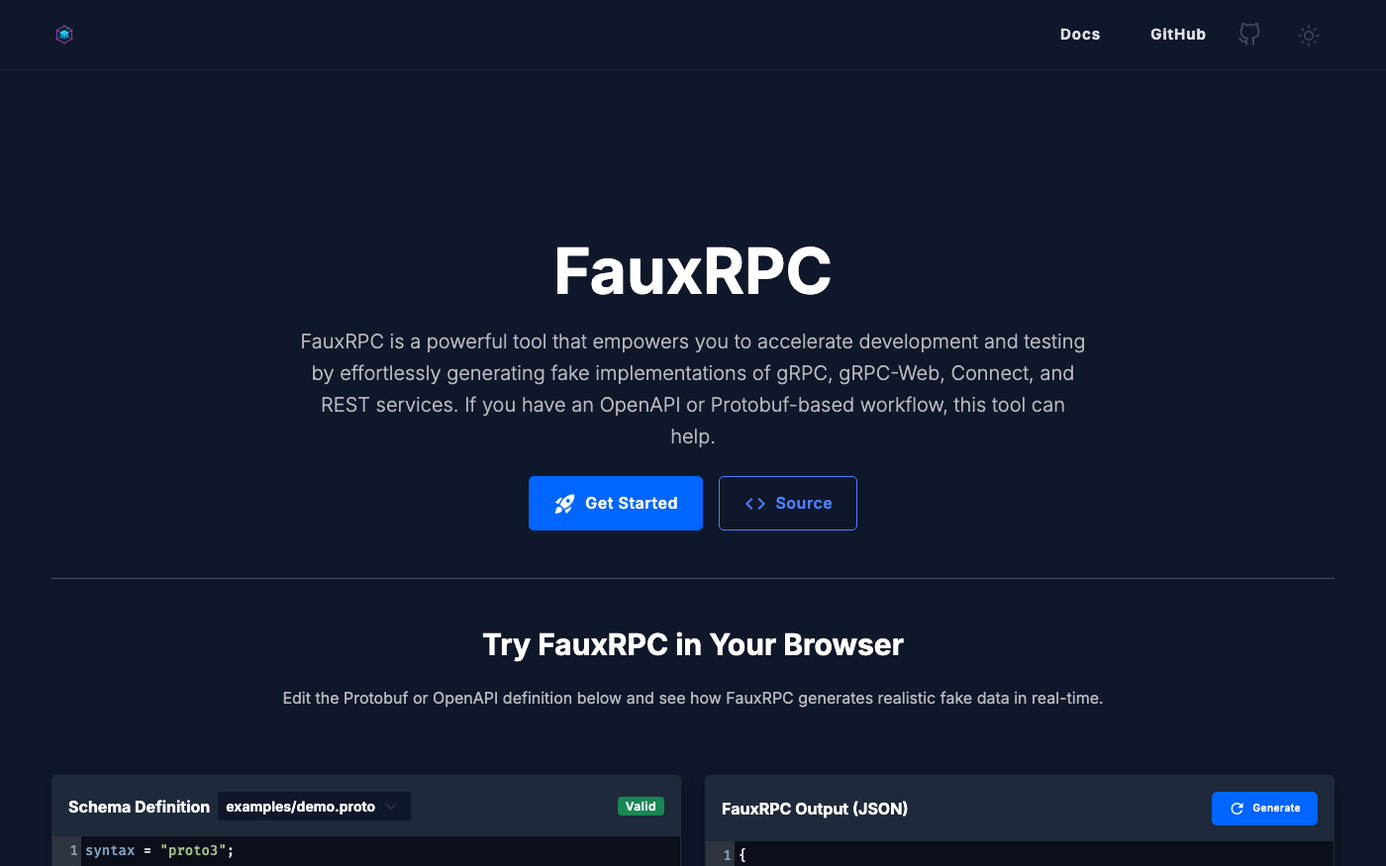
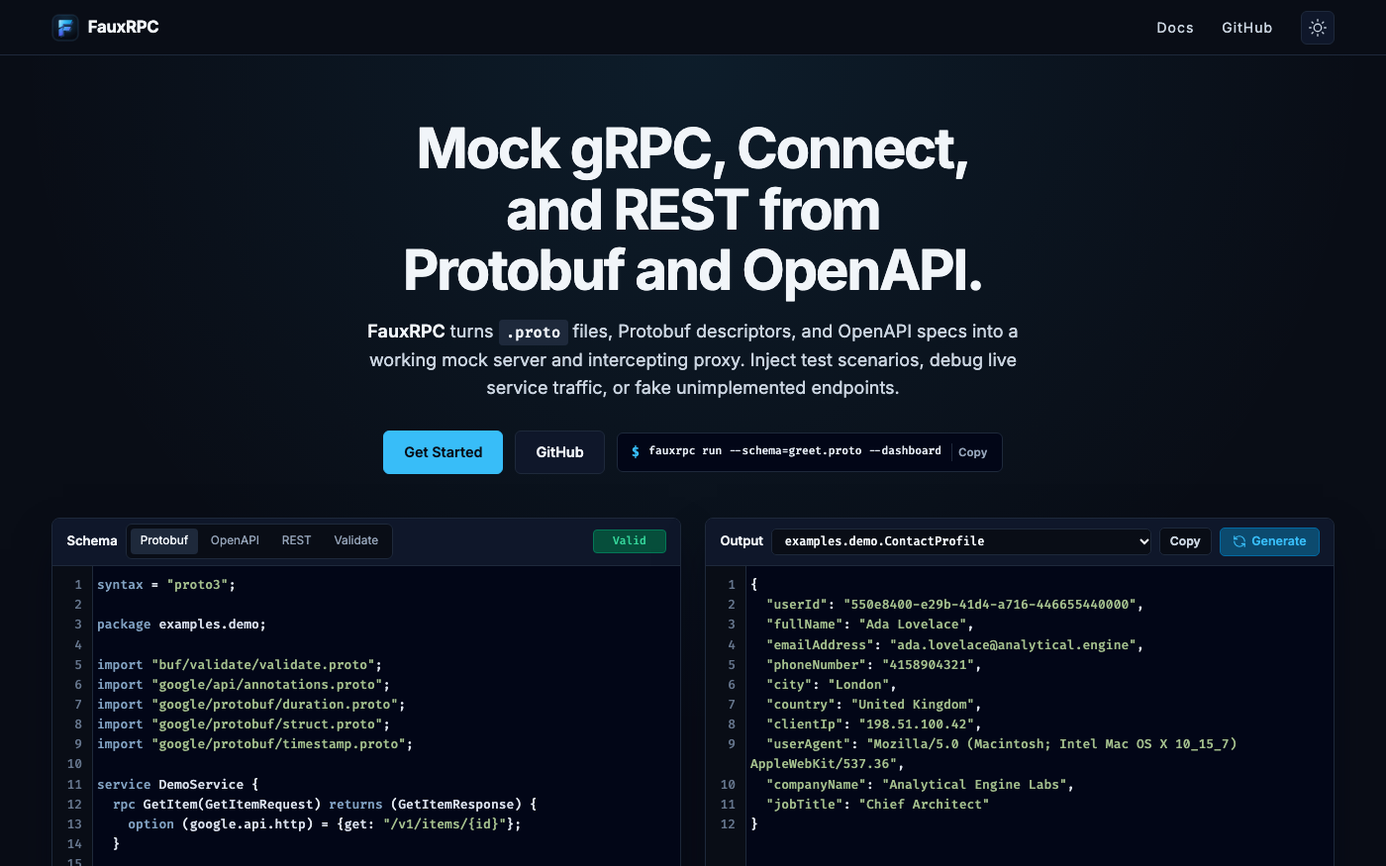
Update protoc-gen-connect-openapi links, fauxrpc screenshot, and /projects references

diff --git a/static/posts/self-documenting-connect-services/openapi.html b/static/posts/self-documenting-connect-services/openapi.html
@@ -17,7 +17,7 @@
 	<script>
 	(async () => {
 		const docs = document.getElementById('docs');
[2 lines of base64/hex data omitted]
 	})();
 	</script>
 

diff --git a/layouts/index.html b/layouts/index.html
@@ -215,7 +215,7 @@
                     <div class="projects-wrapper">
                         {{ $projects := slice 
                             (dict "title" "Internet Maps" "tag" "DATAVIZ" "tagClass" "tag-sunflower" "url" "https://map.kmcd.dev" "desc" "A collection of projects visualizing and explaining the global routing and physical infrastructure of the Internet: <a href=\"https://map.kmcd.dev\" target=\"_blank\" rel=\"noopener\">map.kmcd.dev</a> (cables & peering map), <a href=\"https://livemap.kmcd.dev\" target=\"_blank\" rel=\"noopener\">livemap.kmcd.dev</a> (real-time routing updates stream), and <a href=\"https://bgp.kmcd.dev\" target=\"_blank\" rel=\"noopener\">bgp.kmcd.dev</a> (interactive BGP explainer)." "post" "posts/2026/internet-map-2026/index.md" "cover" "cover.svg")
-                            (dict "title" "protoc-gen-connect-openapi" "tag" "OPENAPI + CONNECT" "tagClass" "tag-teal" "url" "https://github.com/sudorandom/protoc-gen-connect-openapi" "desc" "A protoc plugin that generates OpenAPI 3 definitions from Connect and gRPC service definitions, enabling seamless integration with OpenAPI-based tools." "post" "posts/2024/protoc-gen-connect-openapi/index.md" "cover" "cover.jpg")
+                            (dict "title" "protoc-gen-connect-openapi" "tag" "OPENAPI + CONNECT" "tagClass" "tag-teal" "url" "https://github.com/connectrpc/protoc-gen-connect-openapi" "desc" "A protoc plugin that generates OpenAPI 3 definitions from Connect and gRPC service definitions, enabling seamless integration with OpenAPI-based tools." "post" "posts/2024/protoc-gen-connect-openapi/index.md" "cover" "cover.jpg")
                             (dict "title" "fauxrpc" "tag" "PROTOBUF + GO" "tagClass" "tag-coral" "url" "https://fauxrpc.com" "desc" "A tool that generates fake gRPC and Connect servers based on your Protobuf definitions. It produces realistic, randomized data that adheres to your service's constraints." "post" "posts/2024/fauxrpc/index.md" "cover" "cover.jpg")
                             (dict "title" "ProtoDocs" "tag" "API DOCS" "tagClass" "tag-sunflower" "url" "https://protodocs.dev/" "desc" "A protobuf-first documentation browser for APIs that deserve better than ugly generated docs." "post" "posts/2026/introducing-protodocs/index.md" "cover" "cover.svg")
                         }}
@@ -233,8 +233,8 @@
                             </div>
                         {{ end }}
                     </div>
-                    <a href="{{ "stuff/" | relLangURL }}" class="projects-footer-archive">
-                        Check out all projects on /stuff/ &rarr;
+                    <a href="{{ "projects/" | relLangURL }}" class="projects-footer-archive">
+                        Check out all projects on /projects/ &rarr;
                     </a>
                 </section>
 

diff --git a/layouts/_default/me.html b/layouts/_default/me.html
@@ -62,7 +62,7 @@
           </div>
 
           <p>
-            Video games used to be a big part of how I spent my free time. I got really into Halo/Halo 2 in high school, World of Warcraft in college and Eve Online in my 20s (see the Evepraisal project on my stuff page). Now-a-days I really only play casual games, usually roguelikes, but the interest is still there. I just don't have the time!
+            Video games used to be a big part of how I spent my free time. I got really into Halo/Halo 2 in high school, World of Warcraft in college and Eve Online in my 20s (see the Evepraisal project on my projects page). Now-a-days I really only play casual games, usually roguelikes, but the interest is still there. I just don't have the time!
           </p>
 
           <p>
@@ -297,12 +297,12 @@
 
         <div class="me-card">
           <p>
-            The comprehensive list of all my software projects, interactive tools, and experiments (both ongoing and completed) lives on my <a href="/stuff/">stuff page</a>.
+            The comprehensive list of all my software projects, interactive tools, and experiments (both ongoing and completed) lives on my <a href="/projects/">projects page</a>.
           </p>
 
-          <a href="/stuff/" class="me-all-projects-cta">
+          <a href="/projects/" class="me-all-projects-cta">
             <span class="me-cta-text">
-              <i class="fa-solid fa-boxes-stacked"></i> Browse all projects and tools on /stuff/
+              <i class="fa-solid fa-boxes-stacked"></i> Browse all projects and tools on /projects/
             </span>
             <span class="me-cta-arrow">
               <i class="fa-solid fa-arrow-right"></i>

diff --git a/assets/js/main.js b/assets/js/main.js
@@ -498,7 +498,7 @@ function initKeyboardShortcuts() {
               <div><dt><kbd>g</kbd> <span class="kbd-then">+</span> <kbd>h</kbd></dt><dd>Go to Home</dd></div>
               <div><dt><kbd>g</kbd> <span class="kbd-then">+</span> <kbd>p</kbd></dt><dd>Go to Posts</dd></div>
               <div><dt><kbd>g</kbd> <span class="kbd-then">+</span> <kbd>d</kbd></dt><dd>Go to Daily Prompts</dd></div>
-              <div><dt><kbd>g</kbd> <span class="kbd-then">+</span> <kbd>s</kbd></dt><dd>Go to Stuff</dd></div>
+              <div><dt><kbd>g</kbd> <span class="kbd-then">+</span> <kbd>s</kbd></dt><dd>Go to Projects</dd></div>
               <div><dt><kbd>g</kbd> <span class="kbd-then">+</span> <kbd>m</kbd></dt><dd>Go to About Me</dd></div>
               <div><dt><kbd>g</kbd> <span class="kbd-then">+</span> <kbd>r</kbd></dt><dd>Go to Random Page</dd></div>
             </dl>
@@ -664,7 +664,7 @@ function initKeyboardShortcuts() {
         window.location.href = "/prompts/";
       } else if (k === "s") {
         e.preventDefault();
-        window.location.href = "/stuff/";
+        window.location.href = "/projects/";
       } else if (k === "m") {
         e.preventDefault();
         window.location.href = "/me/";

diff --git a/content/posts/2024/self-documenting-connect-services/index.md b/content/posts/2024/self-documenting-connect-services/index.md
@@ -16,11 +16,11 @@ canonical_url: https://kmcd.dev/posts/self-documenting-connect-services/
 mastodonID: "113197627641199319"
 ---
 
-As some of you may know, I've created a plugin for protoc called [protoc-gen-connect-openapi](https://github.com/sudorandom/protoc-gen-connect-openapi). This plugin converts protobuf files into [OpenAPI specifications](https://swagger.io/specification/) for [the Connect protocol](https://connectrpc.com/docs/protocol/). This protocol is very similar to gRPC but for unary RPCs it follows many more traditions that you'd expect from an HTTP-based API, like using HTTP status codes appropriately, using the normal `Content-Encoding` header to specify compression and avoiding putting extra framing inside of the body. Because of this, we can document it more readily with other specifications like OpenAPI.
+As some of you may know, I've created a plugin for protoc called [protoc-gen-connect-openapi](https://github.com/connectrpc/protoc-gen-connect-openapi). This plugin converts protobuf files into [OpenAPI specifications](https://swagger.io/specification/) for [the Connect protocol](https://connectrpc.com/docs/protocol/). This protocol is very similar to gRPC but for unary RPCs it follows many more traditions that you'd expect from an HTTP-based API, like using HTTP status codes appropriately, using the normal `Content-Encoding` header to specify compression and avoiding putting extra framing inside of the body. Because of this, we can document it more readily with other specifications like OpenAPI.
 
-For more on the plugin itself, refer to [my older post](/posts/protoc-gen-connect-openapi/) that introduces protoc-gen-connect-openapi or [the github repo](https://github.com/sudorandom/protoc-gen-connect-openapi) which has some more updates.
+For more on the plugin itself, refer to [my older post](/posts/protoc-gen-connect-openapi/) that introduces protoc-gen-connect-openapi or [the github repo](https://github.com/connectrpc/protoc-gen-connect-openapi) which has some more updates.
 
-This post is about a new way to use this functionality, from [a Go library](https://pkg.go.dev/github.com/sudorandom/protoc-gen-connect-openapi/converter). This Go API provides a simpler interface to generate OpenAPI from protobuf descriptors. You see, protoc plugins accept a `*pluginpb.CodeGeneratorRequest` and return a `*pluginpb.CodeGeneratorResponse`. The request type, in particular, is hard to use from Go. You have to encode every option you want to use into a single string. This is fine for a CLI but it's not very friendly for a Go library. But now that I made this library it is much easier to generate OpenAPI specs anywhere you run Go. Let's look at some examples.
+This post is about a new way to use this functionality, from [a Go library](https://pkg.go.dev/connectrpc.com/protoc-gen-connect-openapi/converter). This Go API provides a simpler interface to generate OpenAPI from protobuf descriptors. You see, protoc plugins accept a `*pluginpb.CodeGeneratorRequest` and return a `*pluginpb.CodeGeneratorResponse`. The request type, in particular, is hard to use from Go. You have to encode every option you want to use into a single string. This is fine for a CLI but it's not very friendly for a Go library. But now that I made this library it is much easier to generate OpenAPI specs anywhere you run Go. Let's look at some examples.
 
 ## Generating OpenAPI
 First, let's see how we can use this plugin to generate OpenAPI YAML from your protobuf definitions:
@@ -32,7 +32,7 @@ openapiBody, _ := converter.GenerateSingle(
 openapi: 3.1.0
 info:
   title: OpenAPI Documentation of gRPC Services
-  description: This is documentation that was generated from [protoc-gen-connect-openapi](https://github.com/sudorandom/protoc-gen-connect-openapi).
+  description: This is documentation that was generated from [protoc-gen-connect-openapi](https://github.com/connectrpc/protoc-gen-connect-openapi).
   version: 0.1.2
 `)))
 fmt.Println(string(openapiBody))
@@ -43,7 +43,7 @@ With a few short lines, you now have OpenAPI YAML representation of your Connect
 openapi: 3.1.0
 info:
   title: OpenAPI Documentation of gRPC Services
-  description: This is documentation that was generated from [protoc-gen-connect-openapi](https://github.com/sudorandom/protoc-gen-connect-openapi).
+  description: This is documentation that was generated from [protoc-gen-connect-openapi](https://github.com/connectrpc/protoc-gen-connect-openapi).
 paths:
   /connectrpc.eliza.v1.ElizaService/Say:
     post:
@@ -210,7 +210,7 @@ func main() {
 openapi: 3.1.0
 info:
   title: OpenAPI Documentation of gRPC Services
-  description: This is documentation that was generated from [protoc-gen-connect-openapi](https://github.com/sudorandom/protoc-gen-connect-openapi).
+  description: This is documentation that was generated from [protoc-gen-connect-openapi](https://github.com/connectrpc/protoc-gen-connect-openapi).
 `)))
 	if err != nil {
 		log.Fatalf("err: %s", err)
@@ -250,7 +250,7 @@ To see the demo for yourself, [click here!](/posts/self-documenting-connect-serv
 
 In this example, we're using the [@stoplight/elements](https://www.npmjs.com/package/@stoplight/elements) library to render the OpenAPI documentation. The `tmplElements` template embeds the generated OpenAPI YAML (Base64 encoded) into an HTML page, providing a user-friendly interface to explore your API's endpoints, request/response structures, and more. Note that we're using base64 so that none of the YAML characters accidentally escape the javascript string and mess everything up for us. You can also have the script load the OpenAPI spec from a URL, which is what [many of the examples show](https://github.com/stoplightio/elements?tab=readme-ov-file#web-component).
 
-You may also notice some additional options in this example, like `converter.WithContentTypes()`, `converter.WithStreaming(true)` and `converter.WithAllowGET(true)`. These give you more control over content types, whether you want OpenAPI for streaming calls (which may be complicated to support for OpenAPI) and whether you want to generate documentation for GET requests, that Connect supports if you can set the `idempotency_level` option to `NO_SIDE_EFFECTS`. For more information on GET requests and a comprehensive list of available options, refer to the [the Connect documentation](https://connectrpc.com/docs/go/get-requests-and-caching/) and the [protoc-gen-connect-openapi Go documentation](https://pkg.go.dev/github.com/sudorandom/protoc-gen-connect-openapi/converter), respectively.
+You may also notice some additional options in this example, like `converter.WithContentTypes()`, `converter.WithStreaming(true)` and `converter.WithAllowGET(true)`. These give you more control over content types, whether you want OpenAPI for streaming calls (which may be complicated to support for OpenAPI) and whether you want to generate documentation for GET requests, that Connect supports if you can set the `idempotency_level` option to `NO_SIDE_EFFECTS`. For more information on GET requests and a comprehensive list of available options, refer to the [the Connect documentation](https://connectrpc.com/docs/go/get-requests-and-caching/) and the [protoc-gen-connect-openapi Go documentation](https://pkg.go.dev/connectrpc.com/protoc-gen-connect-openapi/converter), respectively.
 
 ## Benefits of Self-Documenting Services
 Clear and interactive documentation makes it easier for developers to understand and integrate with your APIs. This reduces the friction between teams and gives you something to point to in case there are questions about the API. Not everyone is fluent in reading protobuf, but HTTP documentation is much friendlier.

diff --git a/content/posts/2024/grpc-the-ugly-parts/index.md b/content/posts/2024/grpc-the-ugly-parts/index.md
@@ -142,7 +142,7 @@ Editor integration for protobuf code generation leaves a lot to be desired. It w
 Projects like [tRPC](https://trpc.io/) showcase the benefits of tight integration and opinionated design choices—something that protobuf, by its nature, can't fully replicate. However, I remain hopeful that the protobuf ecosystem can evolve to offer a similarly streamlined developer experience.
 
 ### Ugly Documentation
-I've never seen documentation generated from protobuf that wasn't super ugly. I think since gRPC has historically been a backend service, the backend devs never bothered to put any real effort into making pretty documentation output using a protoc plugin. I've solved this problem by [making a protoc plugin](https://github.com/sudorandom/protoc-gen-connect-openapi) that generates OpenAPI from given protobuf files. Then I use one of the many beautiful tools for displaying the OpenAPI spec. This was, by far, much easier than getting me to make a decent design. Another side benefit for generating OpenAPI from protobuf is the ability to tap into that ecosystem since there's more to it than just documentation.
+I've never seen documentation generated from protobuf that wasn't super ugly. I think since gRPC has historically been a backend service, the backend devs never bothered to put any real effort into making pretty documentation output using a protoc plugin. I've solved this problem by [making a protoc plugin](https://github.com/connectrpc/protoc-gen-connect-openapi) that generates OpenAPI from given protobuf files. Then I use one of the many beautiful tools for displaying the OpenAPI spec. This was, by far, much easier than getting me to make a decent design. Another side benefit for generating OpenAPI from protobuf is the ability to tap into that ecosystem since there's more to it than just documentation.
 
 Let's look at a real example. This is a document generated using one of the few tools for generating documentation from protobuf, [protoc-gen-doc](https://github.com/pseudomuto/protoc-gen-doc):
 
@@ -159,4 +159,4 @@ I also want to note that OpenAPI/Swagger interfaces often have a way to test end
 ## Conclusion
 gRPC, while a powerful tool in many ways, still has room to grow.  The less-than-ideal aspects of generated code, coupled with the challenges of dependency management and evolving protobuf schemas, can create friction for developers. The lack of intuitive editor integration and the historical focus on backend services have also hindered its wider adoption in web development.
 
-However, I think the future of gRPC is bright and can be far less ugly. The community is actively addressing these challenges, developing tools like [the buf CLI](https://buf.build/product/cli), [protovalidate](https://github.com/bufbuild/protovalidate) and [protoc-gen-connect-openapi](https://github.com/sudorandom/protoc-gen-connect-openapi) to bridge the gaps and enhance the developer experience. As gRPC matures and [its ecosystem expands](https://trends.google.com/trends/explore?date=all&q=%2Fm%2F04dzxdz,%2Fg%2F11cp5mklv8,RESTful&hl=en), we can anticipate improved tooling, better editor support, and a smoother integration into the frontend world.
+However, I think the future of gRPC is bright and can be far less ugly. The community is actively addressing these challenges, developing tools like [the buf CLI](https://buf.build/product/cli), [protovalidate](https://github.com/bufbuild/protovalidate) and [protoc-gen-connect-openapi](https://github.com/connectrpc/protoc-gen-connect-openapi) to bridge the gaps and enhance the developer experience. As gRPC matures and [its ecosystem expands](https://trends.google.com/trends/explore?date=all&q=%2Fm%2F04dzxdz,%2Fg%2F11cp5mklv8,RESTful&hl=en), we can anticipate improved tooling, better editor support, and a smoother integration into the frontend world.

diff --git a/content/posts/2024/grpc-the-good-parts/index.md b/content/posts/2024/grpc-the-good-parts/index.md
@@ -168,10 +168,10 @@ In addition to replacing existing tooling with easier-to-use versions, buf also 
 Adding buf into the mix can greatly improve your workflow with protobufs, especially when working in a larger team or working with other teams.
 
 ### Third-party protoc plugins, libraries and tools
-There's so many plugins now. I even [made one](https://github.com/sudorandom/protoc-gen-connect-openapi) and to be honest, plugins aren't that hard to make. I think this is the way that API development should work where you base API services off of a contract and generate everything from that same contract. No typos. No confusion over what methods exist. No arguing over REST semantics that has never been clear to anyone.
+There's so many plugins now. I even [made one](https://github.com/connectrpc/protoc-gen-connect-openapi) and to be honest, plugins aren't that hard to make. I think this is the way that API development should work where you base API services off of a contract and generate everything from that same contract. No typos. No confusion over what methods exist. No arguing over REST semantics that has never been clear to anyone.
 
 - **[protoc-gen-doc](https://github.com/pseudomuto/protoc-gen-doc)**: Builds gRPC documentation in several formats. The default styling honestly doesn't look the prettiest but it does allow you to specify a custom template which has been amazing for me to generate something custom without requiring an entire plugin.
-- **[protoc-gen-connect-openapi](https://github.com/sudorandom/protoc-gen-connect-openapi)**: This is my plugin. It generates OpenAPIv3 specs for your ConnectRPC services and has support for [protovalidate](https://github.com/sudorandom/protoc-gen-connect-openapi/blob/main/protovalidate.md), [gnostic OpenAPIv3 annotations](https://github.com/sudorandom/protoc-gen-connect-openapi/blob/main/gnostic.md), and [gRPC-Gateway annotations](https://github.com/sudorandom/protoc-gen-connect-openapi/blob/main/grpcgateway.md).
+- **[protoc-gen-connect-openapi](https://github.com/connectrpc/protoc-gen-connect-openapi)**: This is my plugin. It generates OpenAPIv3 specs for your ConnectRPC services and has support for [protovalidate](https://github.com/connectrpc/protoc-gen-connect-openapi/blob/main/protovalidate.md), [gnostic OpenAPIv3 annotations](https://github.com/connectrpc/protoc-gen-connect-openapi/blob/main/gnostic.md), and [gRPC-Gateway annotations](https://github.com/connectrpc/protoc-gen-connect-openapi/blob/main/grpcgateway.md).
 - **[protovalidate](https://github.com/bufbuild/protovalidate)**: Protovalidate allows you to embed validation rules in your protobuf files which can be used by an associated library to enforce those rules. A large complaint that people have with gRPC is that it's hard to use whenever every single field is optional. Now you can replace a lot of validation code, including required fields, with protobuf options. I'm anxiously awaiting [typescript support](https://github.com/bufbuild/protovalidate/issues/67) so validation logic can be shared on web frontends and backends, which, to me, is the "holy grail" feature of a contract-driven service.
 
 In addition to these libraries and plugins, more tools that you know and love from HTTP are supporting gRPC like [Postman](https://blog.postman.com/postman-now-supports-grpc/), [Insomnia](https://docs.insomnia.rest/insomnia/grpc) and [k6](https://k6.io/docs/using-k6/protocols/grpc/).

diff --git a/content/posts/2024/protoc-gen-connect-openapi/index.md b/content/posts/2024/protoc-gen-connect-openapi/index.md
@@ -50,12 +50,12 @@ If you mark the endpoint as `idempotency_level=NO_SIDE_EFFECTS` then you can als
 < {"greeting": "Hello, Buf!"}
 ```
 
-It's that... simple? Elegant? No? If you're not sold on ConnectRPC now then this may not be the post for you because the rest will talk about my new tool created for ConnectRPC; **[protoc-gen-connect-openapi](https://github.com/sudorandom/protoc-gen-connect-openapi)**.
+It's that... simple? Elegant? No? If you're not sold on ConnectRPC now then this may not be the post for you because the rest will talk about my new tool created for ConnectRPC; **[protoc-gen-connect-openapi](https://github.com/connectrpc/protoc-gen-connect-openapi)**.
 
 ## Introducing protoc-gen-connect-openapi
-[protoc-gen-connect-openapi](https://github.com/sudorandom/protoc-gen-connect-openapi) generates OpenAPI v3.1 files from protobuf files that match the API that the [Connect protocol](https://connectrpc.com/docs/protocol) exposes.
+[protoc-gen-connect-openapi](https://github.com/connectrpc/protoc-gen-connect-openapi) generates OpenAPI v3.1 files from protobuf files that match the API that the [Connect protocol](https://connectrpc.com/docs/protocol) exposes.
 
-We can document the Connect API as if it's a real JSON/HTTP API... because it is, and the gRPC "flavor" isn't so noticable due to Connect. With [protoc-gen-connect-openapi](https://github.com/sudorandom/protoc-gen-connect-openapi) you can declare your API using protobuf, serve it using gRPC/gRPC-WEb/Connect and fully document it without the API consumers ever knowing what protobuf is or how to read it. To me, this is the best of all worlds.
+We can document the Connect API as if it's a real JSON/HTTP API... because it is, and the gRPC "flavor" isn't so noticable due to Connect. With [protoc-gen-connect-openapi](https://github.com/connectrpc/protoc-gen-connect-openapi) you can declare your API using protobuf, serve it using gRPC/gRPC-WEb/Connect and fully document it without the API consumers ever knowing what protobuf is or how to read it. To me, this is the best of all worlds.
 
 So, specifically, what good are OpenAPI files generated for Connect? What does that do? Well, first of all, it allows you to generate documentation with tools like [redocly](https://github.com/Redocly/redocly-cli) or [elements](https://github.com/stoplightio/elements).
 
@@ -77,4 +77,4 @@ click openapi-generator "https://github.com/OpenAPITools/openapi-generator" _bla
 
 In summary, I hope this tool will extend the contract-based usage of protobuf along with ConnectRPC's RPC-based API into further places with more documentation, more code generation, and additional validation.
 
-For more information, check out the [protoc-gen-connect-openapi repo on Github](https://github.com/sudorandom/protoc-gen-connect-openapi).
+For more information, check out the [protoc-gen-connect-openapi repo on Github](https://github.com/connectrpc/protoc-gen-connect-openapi).

diff --git a/content/posts/2024/fauxrpc-protovalidate/index.md b/content/posts/2024/fauxrpc-protovalidate/index.md
@@ -45,7 +45,7 @@ service GreetService {
 }
 ```
 
-The `buf.validate.field` annotations are from protovalidate. The section `(buf.validate.field).string = {min_len: 3, max_len: 20}` ensures that the `name` field is between 3 and 20 characters. `(buf.validate.field).string.example = "Hello, user!"` is declaring what an example response might look like. This mostly serves as documentation but it also influences other tools, including [protoc-gen-connect-openapi](https://github.com/sudorandom/protoc-gen-connect-openapi) and, now, FauxRPC! We'll see how FauxRPC uses both of these constraints in a second. First, let's start up the FauxRPC server.
+The `buf.validate.field` annotations are from protovalidate. The section `(buf.validate.field).string = {min_len: 3, max_len: 20}` ensures that the `name` field is between 3 and 20 characters. `(buf.validate.field).string.example = "Hello, user!"` is declaring what an example response might look like. This mostly serves as documentation but it also influences other tools, including [protoc-gen-connect-openapi](https://github.com/connectrpc/protoc-gen-connect-openapi) and, now, FauxRPC! We'll see how FauxRPC uses both of these constraints in a second. First, let's start up the FauxRPC server.
 
 To use protovalidate with FauxRPC, we need to leverage another tool that's extremely helpful for working with protobuf definitions. This is because we used protovalidate, a dependency. Usually dependencies are hard to deal with in protobuf because the default protobuf tooling just doesn't manage dependencies at all. However, the [Buf CLI](https://buf.build/product/cli) and the [BSR](https://buf.build/product/bsr) can help us here.
 

diff --git a/content/posts/2026/joining-buf/index.md b/content/posts/2026/joining-buf/index.md
@@ -15,7 +15,7 @@ devtoSkip: true
 canonical_url: https://kmcd.dev/posts/joining-buf/
 ---
 
-I've started working at [Buf Technologies](https://buf.build/)! This will come as no surprise to those who have been following me for a while. I've been writing about schema-first development, have made tools to enable protobuf-driven development ([FauxRPC](https://fauxrpc.com/) and [protoc-gen-connect-openapi](https://github.com/sudorandom/protoc-gen-connect-openapi)), and I've been a big fan and user of the ConnectRPC stack for a long time.
+I've started working at [Buf Technologies](https://buf.build/)! This will come as no surprise to those who have been following me for a while. I've been writing about schema-first development, have made tools to enable protobuf-driven development ([FauxRPC](https://fauxrpc.com/) and [protoc-gen-connect-openapi](https://github.com/connectrpc/protoc-gen-connect-openapi)), and I've been a big fan and user of the ConnectRPC stack for a long time.
 
 I joined Buf to work in developer relations. This is a change from what I have been doing. I've usually been making in-house tooling and API services, and writing was related to side projects. I started writing this blog as a hobby and as a vehicle to develop my skills (both in writing and as a SWE). For a long time, I felt writing was a weak area of mine. I previously shied away from it because I figured I had nothing useful to say. I think that used to be true, but over the years, I have gained enough real experience to add some genuine flavor to my ideas here.
 

diff --git a/content/posts/2026/introducing-protodocs/index.md b/content/posts/2026/introducing-protodocs/index.md
@@ -18,7 +18,7 @@ canonical_url: https://kmcd.dev/posts/introducing-protodocs/
 
 Most tools force an awkward compromise. Some produce complete output that is hard to read. Others look polished only after custom templates, glue code, and project-specific maintenance. The fallback is to share the `.proto` files directly, which works for people already deep in protobuf but is rough for everyone else.
 
-That frustration is why I originally built [protoc-gen-connect-openapi](https://github.com/sudorandom/protoc-gen-connect-openapi). The OpenAPI ecosystem has tools like Redocly and Swagger UI, and they make good-looking, browsable API sites easy to publish. Translating [Connect APIs](https://connectrpc.com) into OpenAPI made sense at the time, and it still works well. But it also means starting with protobuf, converting to another schema format, and then documenting that result.
+That frustration is why I originally built [protoc-gen-connect-openapi](https://github.com/connectrpc/protoc-gen-connect-openapi). The OpenAPI ecosystem has tools like Redocly and Swagger UI, and they make good-looking, browsable API sites easy to publish. Translating [Connect APIs](https://connectrpc.com) into OpenAPI made sense at the time, and it still works well. But it also means starting with protobuf, converting to another schema format, and then documenting that result.
 
 I wanted the shorter path: start from protobuf, keep the schema visible, and still end up with something polished enough to publish.
 

diff --git a/content/posts/2024/blog-update/index.md b/content/posts/2024/blog-update/index.md
@@ -38,7 +38,7 @@ I've made some improvements to how RSS feeds are generated so that links and ima
 I originally used the [Hello Friend 4s3ti](https://github.com/coolapso/hugo-theme-hello-4s3ti) theme for my blog. I've slowly made small adjustments, moving more and more layouts away from the theme into the main blog section. At some point, I may copy over the rest of the resources and use a completely custom theme which will allow me to delete features I don't ever plan on using and more easily customize. But anyway, I like the style that I've settled on. It fits me.
 
 ### Projects Page
-I updated the projects page to be more... clear. The image gallery format just wasn't working to show what I worked on. I'm not an artist and I should come to terms with that! See the page [here](/stuff/).
+I updated the projects page to be more... clear. The image gallery format just wasn't working to show what I worked on. I'm not an artist and I should come to terms with that! See the page [here](/projects/).
 
 ### Links Page
 I have become a fan of the "small web" and I feel like link pages bring some of that small web feeling back. (My links page has since been retired.)
